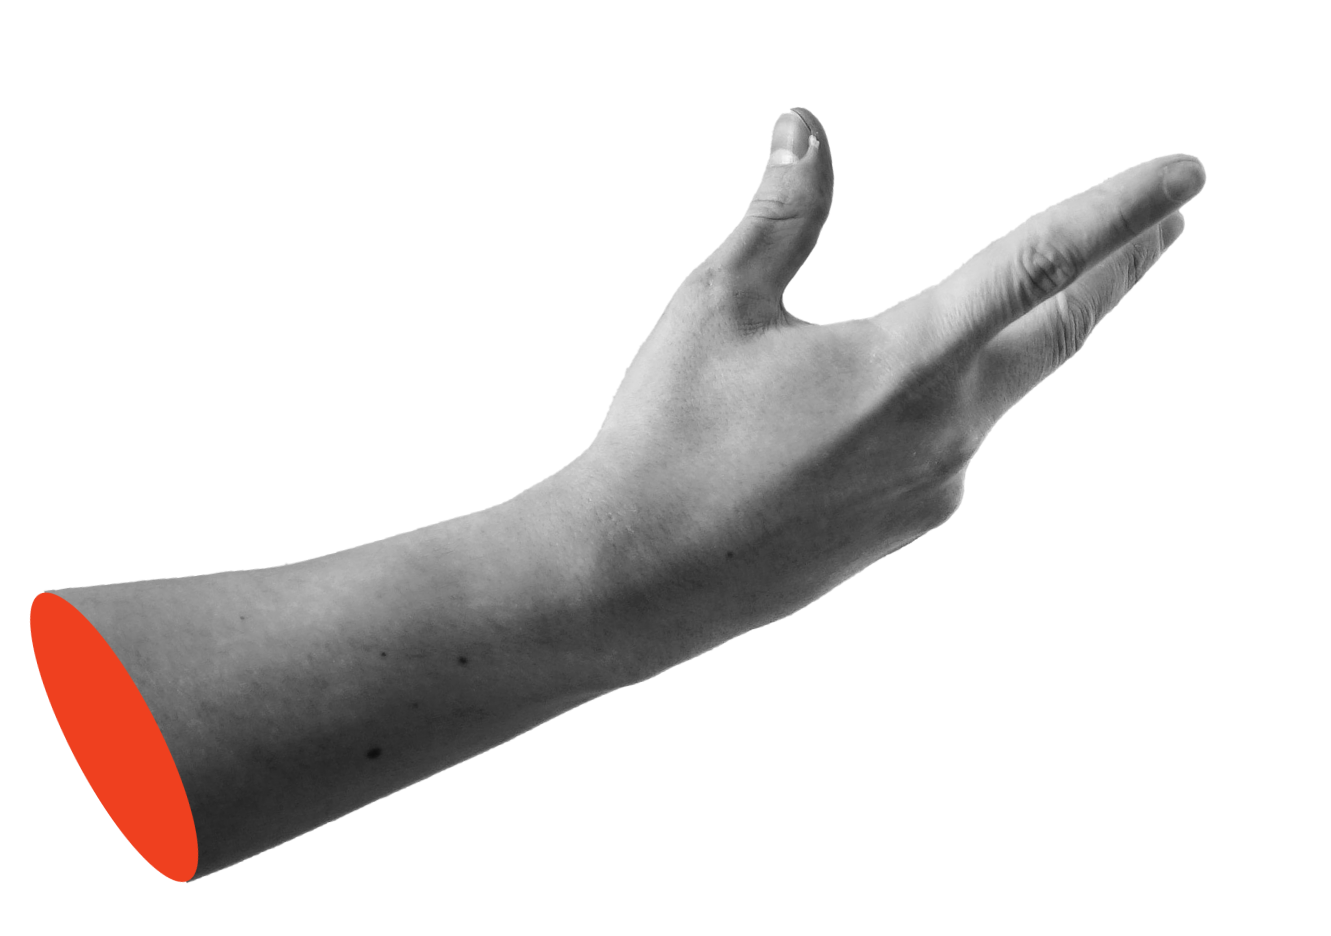
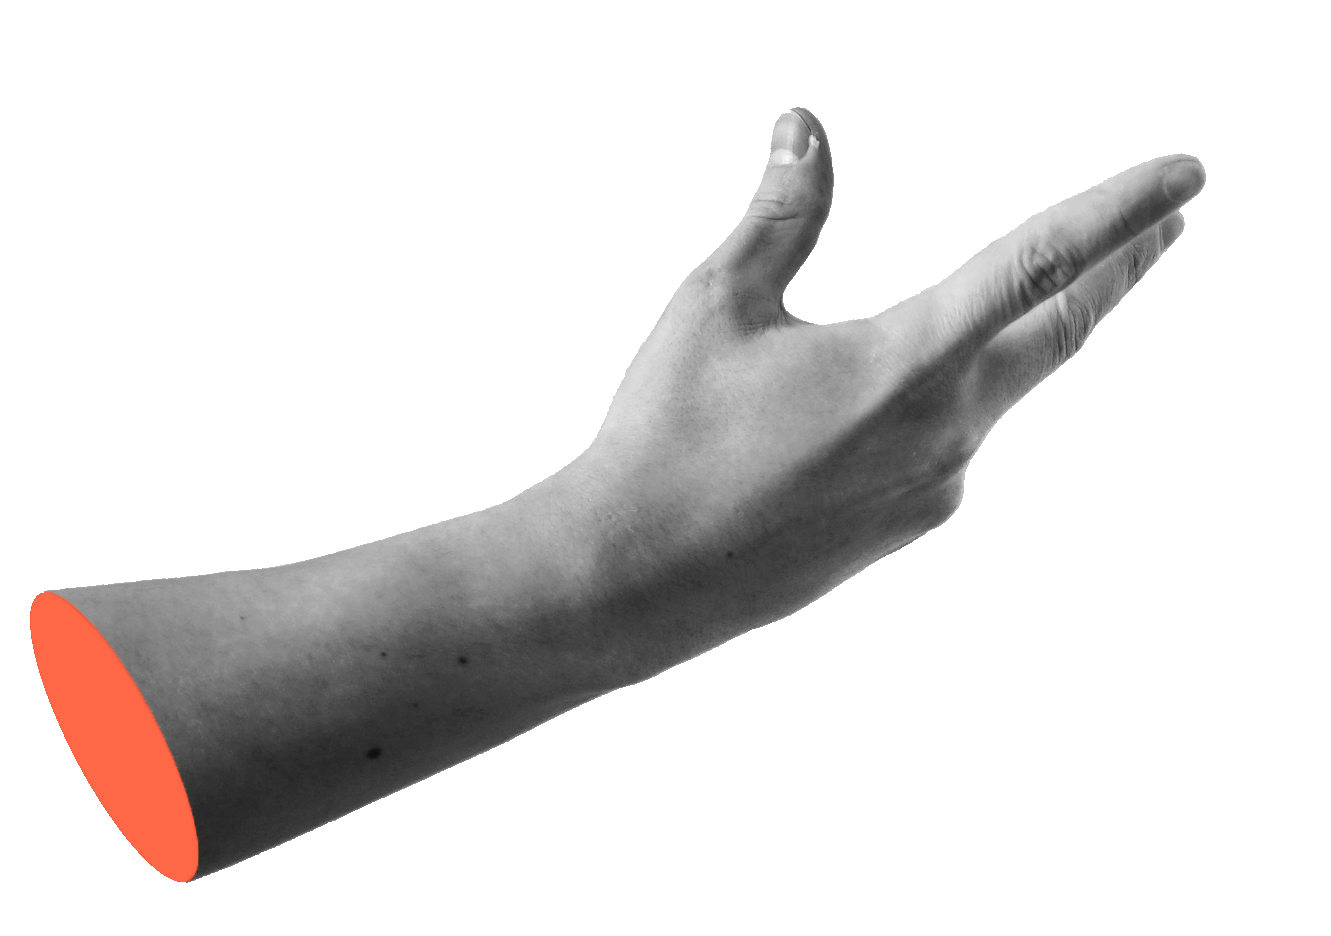
form

Changed region(s): [[0.0, 0.6197, 0.154, 0.9605]]

diff --git a/components/contactPage/contactForm.js b/components/contactPage/contactForm.js
@@ -95,44 +95,54 @@ const ContactForm = () => {
 
         <div className="flex-none lg:flex-1"></div>
         <div className="flex-none w-11/12 mx-auto lg:flex-1 flex items-center">
-          <form className="lg:w-[580px] lg:h-[565px] border border-red-700 bg-white z-10 p-10">
+          <form className="lg:w-[580px] lg:h-[565px] border border-[#FE6847] bg-white z-10 p-10">
             <p className="ml-20 text-[#232F37]">
               Lorem ipsum dolor sit amet consectetur adipisicing elit. Veniam
               voluptate mollitia sequi amet neque exercitationem.
             </p>
-            <label htmlFor="name" className="input_name">
-              Nome
-            </label>
+            <div className="mt-4">
+              <label htmlFor="name" className="input_name mb-2 ">
+                Nome
+              </label>
+              <input
+                id="name"
+                type="text"
+                value={inputs.name}
+                onChange={handleChange}
+                className="inputField w-full p-3 bg-gray-50 text-gray-900 text-sm rounded-lg focus:ring-gray-600 focus:border-gray-600 block mt-2"
+                placeholder="write your name"
+                required
+              />{" "}
+            </div>
+            <div className="mt-4">
+              <label htmlFor="email">E-mail </label>
+              <input
+                id="email"
+                type="email"
+                value={inputs.email}
+                onChange={handleChange}
+                className="inputField w-full p-3 bg-gray-50 text-gray-900 text-sm rounded-lg focus:ring-gray-600 focus:border-gray-600 block mt-2"
+                placeholder="esempio@email.com"
+                required
+              />
+            </div>
+            <div className="mt-4">
+              <label htmlFor="message">Messaggio</label>
+              <textarea
+                id="message"
+                type="text"
+                value={inputs.message}
+                onChange={handleChange}
+                className="inputField p-3 bg-gray-50 border border-gray-300 text-gray-900 text-sm rounded-lg focus:ring-indigo-600 focus:border-indigo-600 block mt-2"
+                rows="5"
+                required
+              />
+            </div>
+
             <input
-              id="name"
-              type="text"
-              value={inputs.name}
-              onChange={handleChange}
-              className="inputField w-full p-3 bg-gray-50 text-gray-900 text-sm rounded-lg focus:ring-gray-600 focus:border-gray-600 block"
-              placeholder="write your name"
-              required
-            />{" "}
-            <label htmlFor="email">E-mail </label>
-            <input
-              id="email"
-              type="email"
-              value={inputs.email}
-              onChange={handleChange}
-              className="inputField w-full p-3 bg-gray-50 text-gray-900 text-sm rounded-lg focus:ring-gray-600 focus:border-gray-600 block"
-              placeholder="esempio@email.com"
-              required
+              type="submit"
+              className="bg-[#FE6847] p-3 mt-4 text-white border border-[#FE6847] rounded-xl hover:scale-110"
             />
-            <label htmlFor="message">Scrivi qui</label>
-            <textarea
-              id="message"
-              type="text"
-              value={inputs.message}
-              onChange={handleChange}
-              className="inputField p-3 bg-gray-50 border border-gray-300 text-gray-900 text-sm rounded-lg focus:ring-indigo-600 focus:border-indigo-600 block"
-              rows="5"
-              required
-            />
-            <input type="submit" className="button p-3" />
             {form.state === "loading" ? (
               <div>Invio in corso....</div>
             ) : form.state === "error" ? (

diff --git a/styles/form.css b/styles/form.css
@@ -1,5 +1,5 @@
 .bgForm {
-  background-color: #d9d9d9;
+  background-color: #dfdede;
   display: flex;
   position: relative;
   top: 0;
@@ -83,7 +83,7 @@
   width: 267px;
   height: 265px;
   background-size: auto 265px;
-  background-color: #7b61ff;
+  background-color: #4bbfdc;
   border-radius: 50%;
 }
 
@@ -106,7 +106,7 @@
   width: 120px;
   height: 120px;
   background-size: auto 120px;
-  background-color: #d93280;
+  background-color: #fe6847;
   border-radius: 50%;
 }
 
